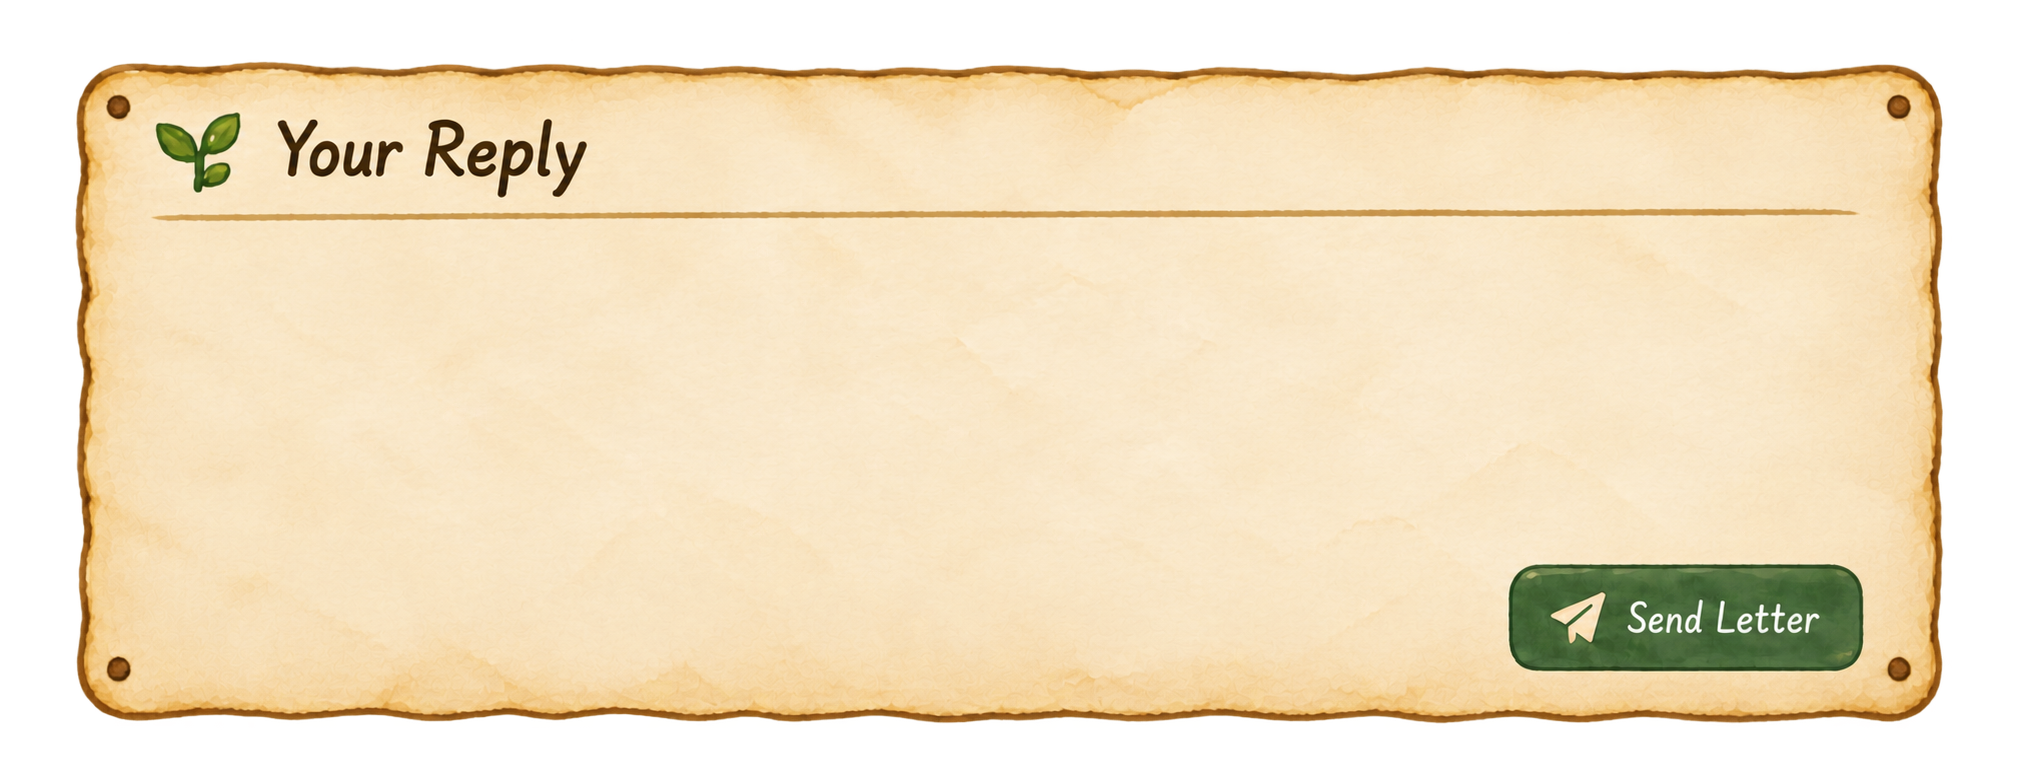
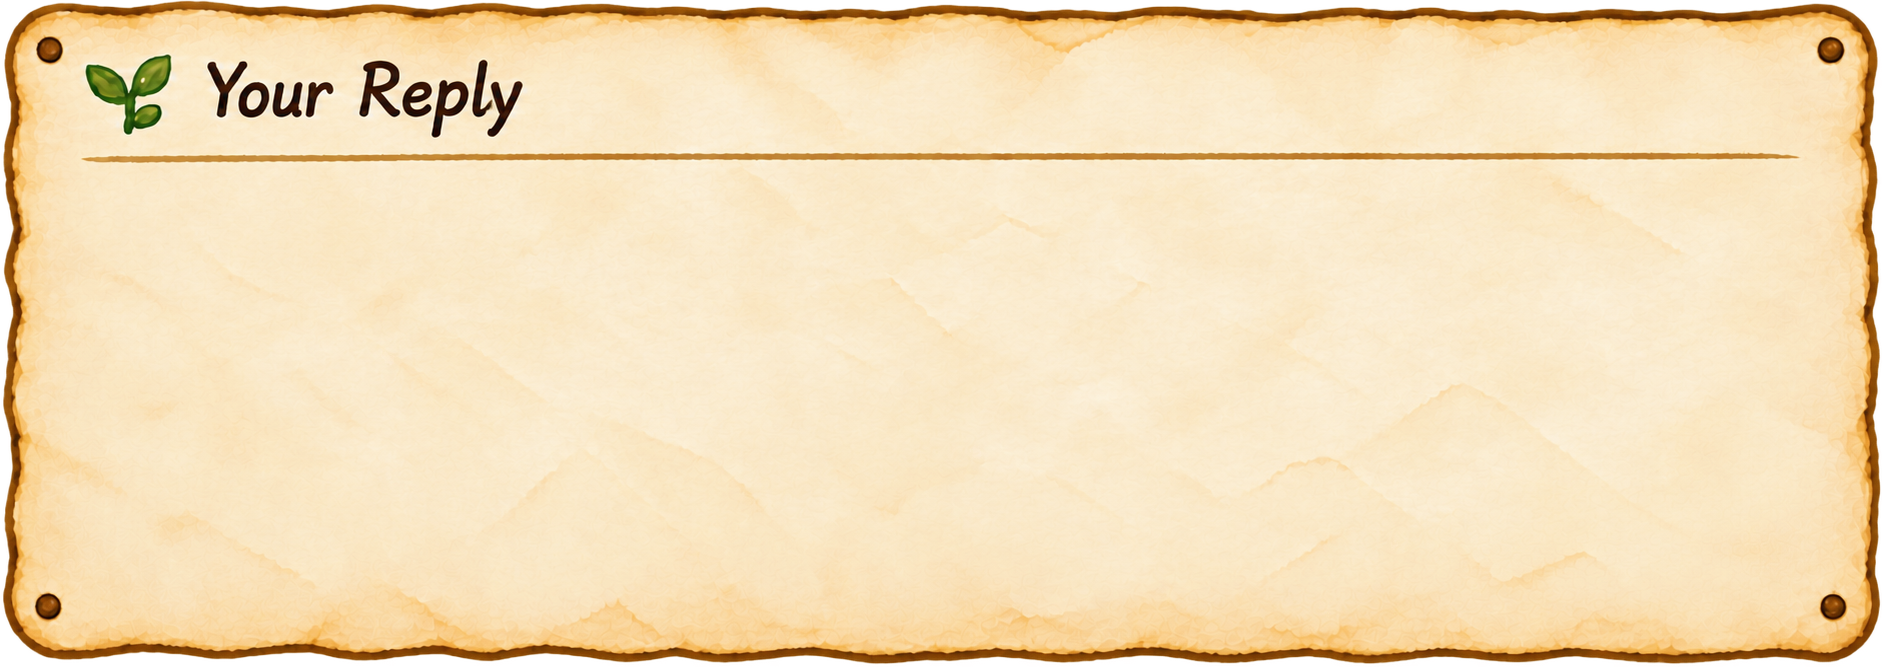
feat: implement message reply workflow

diff --git a/src/components/mail/MailManagerLayout.tsx b/src/components/mail/MailManagerLayout.tsx
@@ -11,6 +11,8 @@ type MessageDetails = {
     visitorName: string | null
     messageDate: string | null
     message: string | null
+    replyMessage: string | null
+    isReplied: boolean
 }
 
 export type ContactMessage = {
@@ -81,13 +83,12 @@ export const mockMessages: ContactMessage[] = [
         createdAt: "2026-09-04T21:53:00Z",
         repliedAt: null,
     },
-
     {
         id: 6,
         visitorName: "Daniel Cooper",
         visitorEmail: "daniel.cooper@example.com",
         visitorMessage:
-            "I wanted to tell you how much I enjoyed the old tractor description. It reminded me immediately of my grandfather insisting that his ancient tractor had absolutely nothing wrong with it.",
+            "I loved the old tractor joke. It reminded me immediately of my grandfather insisting that his ancient tractor had absolutely nothing wrong with it.",
         replyMessage:
             "Thank you, Daniel! That is exactly the sort of old tractor we had in mind. Jerry would definitely agree with your grandfather that a tractor is perfectly fine as long as it eventually starts!",
         status: "REPLIED",
@@ -152,43 +153,127 @@ export default function MailManagerLayout() {
             messageId: null,
             visitorName: null,
             messageDate: null,
-            message: null
+            message: null,
+            replyMessage: null,
+            isReplied: false,
         }
     );
-    const newMessages = mockMessages.filter(message => message.status === "NEW");
-    const repliedMessages = mockMessages.filter(message => message.status === "REPLIED");
+    const [replyMessage, setReplyMessage] = useState<string | null>(null);
+    const [isSubmitting, setIsSubmitting] = useState(false);
+    const [errorMessage, setErrorMessage] = useState<string | null>(null);
+    const [messageData, setMessageData] = useState<ContactMessage[]>(mockMessages);
+
+    const newMessages = messageData.filter(message => message.status === "NEW");
+    const repliedMessages = messageData.filter(message => message.status === "REPLIED");
+
+    const isValidMessage = (message:string|null) => {
+        if(message === null) return false;
+        const trimmed = message.trim();
+        return trimmed.length >= 30 && trimmed.length <= 2000;
+    }
+
 
     function handleClickPreviewMessageBox(messageId:number,messageIndex:number) {
+        setErrorMessage("")
         setFocusedMessageIndex(messageIndex)
-        setMessageDetails({
-            messageId: messageId,
-            visitorName: mockMessages[messageId].visitorName,
-            messageDate: mockMessages[messageId].createdAt,
-            message: mockMessages[messageId].visitorMessage
-        })
+        if (messageListTab === "unreplied") {
+            setMessageDetails({
+                messageId: messageId,
+                visitorName: newMessages[messageIndex].visitorName,
+                messageDate: newMessages[messageIndex].createdAt,
+                message: newMessages[messageIndex].visitorMessage,
+                replyMessage: "",
+                isReplied: false
+            })
+            setReplyMessage("")
+            setIsSubmitting(false)
+            return
+        }
+        setMessageDetails(
+            {
+                messageId: messageId,
+                visitorName: repliedMessages[messageIndex].visitorName,
+                messageDate: repliedMessages[messageIndex].createdAt,
+                message: repliedMessages[messageIndex].visitorMessage,
+                replyMessage: repliedMessages[messageIndex].replyMessage,
+                isReplied: true
+            }
+        )
+        setReplyMessage(repliedMessages[messageIndex].replyMessage)
     }
 
     function handleMessageListTabChange(tabName:string){
         setMessageListTab(tabName)
+        setErrorMessage("")
         setFocusedMessageIndex(0)
-        tabName === "unreplied" ?
-            setMessageDetails(
-                {
-                    messageId: newMessages[0].id,
-                    visitorName: newMessages[0].visitorName,
-                    messageDate: newMessages[0].createdAt,
-                    message: newMessages[0].visitorMessage
-                }
-            ):
+        if (tabName === "unreplied") {
+            if(newMessages.length > 0){
+                setMessageDetails(
+                    {
+                        messageId: newMessages[0].id,
+                        visitorName: newMessages[0].visitorName,
+                        messageDate: newMessages[0].createdAt,
+                        message: newMessages[0].visitorMessage,
+                        replyMessage: null,
+                        isReplied: false
+                    }
+                )
+            }
+            else {
+                setMessageDetails(
+                    {
+                        messageId: null,
+                        visitorName: null,
+                        messageDate: null,
+                        message: null,
+                        replyMessage: null,
+                        isReplied: false
+                    }
+                )
+            }
+            setIsSubmitting(false)
+            setReplyMessage("")
+            return
+        }
+        if( tabName === "replied"&&repliedMessages.length > 0) {
             setMessageDetails(
                 {
                     messageId: repliedMessages[0].id,
                     visitorName: repliedMessages[0].visitorName,
                     messageDate: repliedMessages[0].createdAt,
-                    message: repliedMessages[0].visitorMessage
+                    message: repliedMessages[0].visitorMessage,
+                    replyMessage: repliedMessages[0].replyMessage,
+                    isReplied: true
                 }
             )
+            setIsSubmitting(true)
+            setReplyMessage(repliedMessages[0].replyMessage)
+            return
+        }
+    }
 
+    function handleReplyMessageSubmit(messageId: number | null){
+        if(!isValidMessage(replyMessage)){
+            setErrorMessage("Don't forget to write a reply!")
+            setIsSubmitting(false)
+            return;
+        }
+        setMessageData(
+            messageData.map((message) => {
+                if (message.id === messageId) {
+                    return {
+                        ...message,
+                        replyMessage: replyMessage,
+                        status: "REPLIED",
+                        repliedAt: new Date().toISOString(),
+                    };
+                }
+                return message;
+            })
+        );
+        setErrorMessage("")
+        setMessageListTab("replied")
+        return;
     }
 
     useEffect(() => {
@@ -198,19 +283,39 @@ export default function MailManagerLayout() {
                     messageId: newMessages[0].id,
                     visitorName: newMessages[0].visitorName,
                     messageDate: newMessages[0].createdAt,
-                    message: newMessages[0].visitorMessage
+                    message: newMessages[0].visitorMessage,
+                    replyMessage: null,
+                    isReplied: false
                 }
             )
         }
     }, []);
 
+    useEffect(() => {
+        if(isSubmitting){
+            setMessageDetails(
+                {
+                    messageId: repliedMessages[0].id,
+                    visitorName: repliedMessages[0].visitorName,
+                    messageDate: repliedMessages[0].createdAt,
+                    message: repliedMessages[0].visitorMessage,
+                    replyMessage: repliedMessages[0].replyMessage,
+                    isReplied: true
+                }
+            )
+        }
+    }, [messageData]);
 
     return (
         <div className="relative w-full h-screen overflow-hidden">
             <img src="/background-image.png" alt="Cozy Farm Post Office" className="w-full m-0 z-0 object-fill" />
             <img src="/message-tab.png" className="absolute left-[7%] top-[20%] w-[30%] h-[15%]" alt="message tab"/>
-            <img src="/message-deatils-frame.png" className="absolute left-[39.7%] top-[22%] w-[56%] h-[50%]" alt="message tab"/>
-            <img src="/reply-frame.png" className="absolute left-[39.7%] top-[68%] w-[55.55%] h-[31%]" alt="message tab"/>
+            <img src="/message-deatils-frame.png" className="absolute left-[39.7%] top-[22%] w-[56%] h-[50%]" alt="message details"/>
+            <img src="/reply-frame.png" className="absolute left-[41.7%] top-[71%] w-[51.55%] h-[26%]" alt="reply frame"/>
+            {
+                messageListTab=="unreplied" && <img src="/send-letter-button.png" className="absolute left-[80%] top-[89.7%] w-[10%] h-[5%]" alt="reply button"/>
+            }
+
             <div className="absolute left-[19%] top-[26%] w-[56%] h-[50%] font-hand">
                 {newMessages.length}
             </div>
@@ -274,7 +379,14 @@ export default function MailManagerLayout() {
             }
 
             <MessageDetailsFrame left={47.5} top={33} messageDetails={messageDetails}/>
-            <ReplyMessageFrame left={47.5} top={70}/>
+            <ReplyMessageFrame left={47.5} top={70} messageId={messageDetails.messageId} isReplied={messageDetails.isReplied}
+                               replyMessage={replyMessage}
+                               setReplyMessage={setReplyMessage}
+                               isSubmitting={isSubmitting}
+                               setIsSubmitting={setIsSubmitting}
+                               handleReplyMessageSubmit={handleReplyMessageSubmit}
+                               errorMessage={errorMessage}
+            />
         </div>
     );
 }

diff --git a/src/components/mail/ReplyMessageFrame.tsx b/src/components/mail/ReplyMessageFrame.tsx
@@ -3,13 +3,24 @@ import * as React from "react";
 type ReplyMessageFrameProps = {
     left: number
     top: number
+    messageId: number| null
+    isReplied: boolean
+    replyMessage: string | null
+    setReplyMessage: React.Dispatch<React.SetStateAction<string | null>>
+    isSubmitting: boolean
+    setIsSubmitting: React.Dispatch<React.SetStateAction<boolean>>
+    handleReplyMessageSubmit: (messageId: number | null) => void
+    errorMessage: string | null
 }
 
-export default function ReplyMessageFrame({left,top}: ReplyMessageFrameProps) {
+export default function ReplyMessageFrame({left,top,isReplied,replyMessage,setReplyMessage,messageId,
+                                              isSubmitting,setIsSubmitting,
+                                              handleReplyMessageSubmit,errorMessage}: ReplyMessageFrameProps) {
+
     const handleSubmit = (e: React.SubmitEvent) => {
-
         e.preventDefault();
-
+        setIsSubmitting(true);
+        handleReplyMessageSubmit(messageId);
     };
     return (
         <div
@@ -17,7 +28,7 @@ export default function ReplyMessageFrame({left,top}: ReplyMessageFrameProps) {
             style={{
                 left: `${left}%`,
                 top: `${top}%`,
-                width: "43%",
+                width: "40%",
                 height: "8%",
             }}
         >
@@ -26,11 +37,33 @@ export default function ReplyMessageFrame({left,top}: ReplyMessageFrameProps) {
                 <div className="mt-[4cqw] w-full">
                     <textarea
                         name="message"
+                        value={replyMessage ?? ""}
+                        onChange={(e) => setReplyMessage(e.target.value)}
+                        disabled={isReplied}
                         className="mt-[0.75cqw] h-[8cqw] w-full resize-none bg-transparent border-none outline-none
                                         font-hand text-[1rem] leading-normal"
                     />
                 </div>
+                <button type="submit" disabled={isSubmitting} className={`absolute ${isSubmitting ? "" : "cursor-pointer"}`}
+                    style={{
+                        left: "78%",
+                        top: "270%",
+                        width: "23%",
+                        height: "25%",
+                    }}
+                >
+                </button>
             </form>
+            <p
+                className="absolute text-center text-[1cqw] opacity-70"
+                style={{
+                    left: "30%",
+                    top: "276%",
+                    width: "40%",
+                }}
+            >
+                {errorMessage}
+            </p>
         </div>
     )
 }
